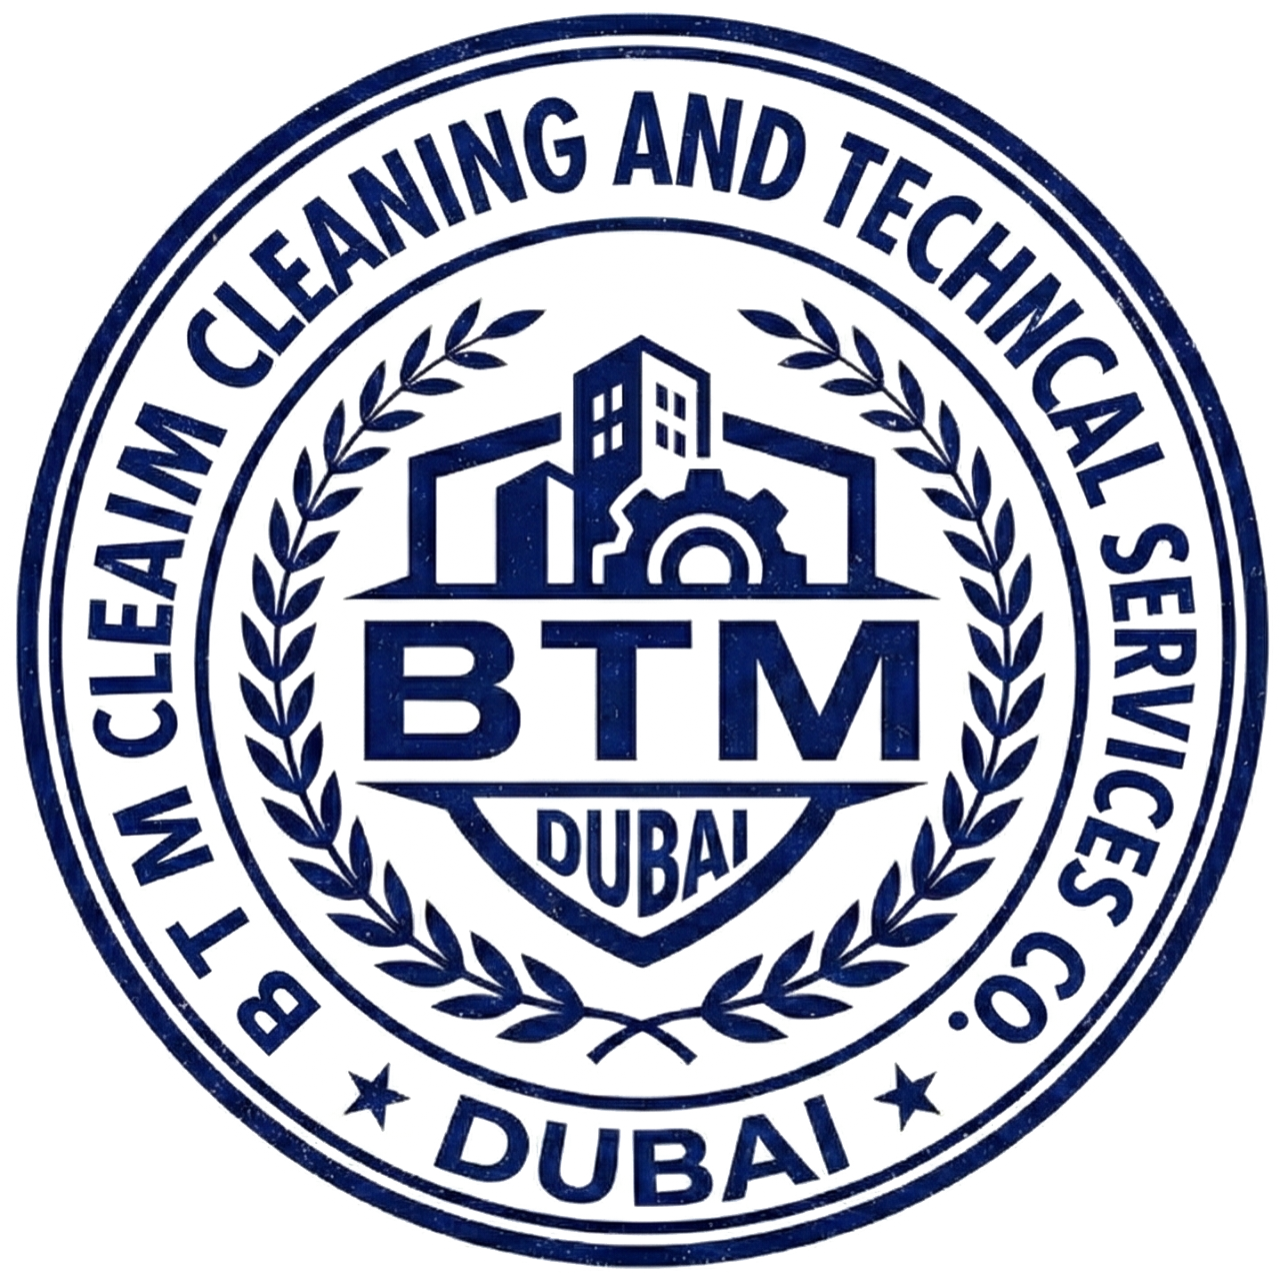
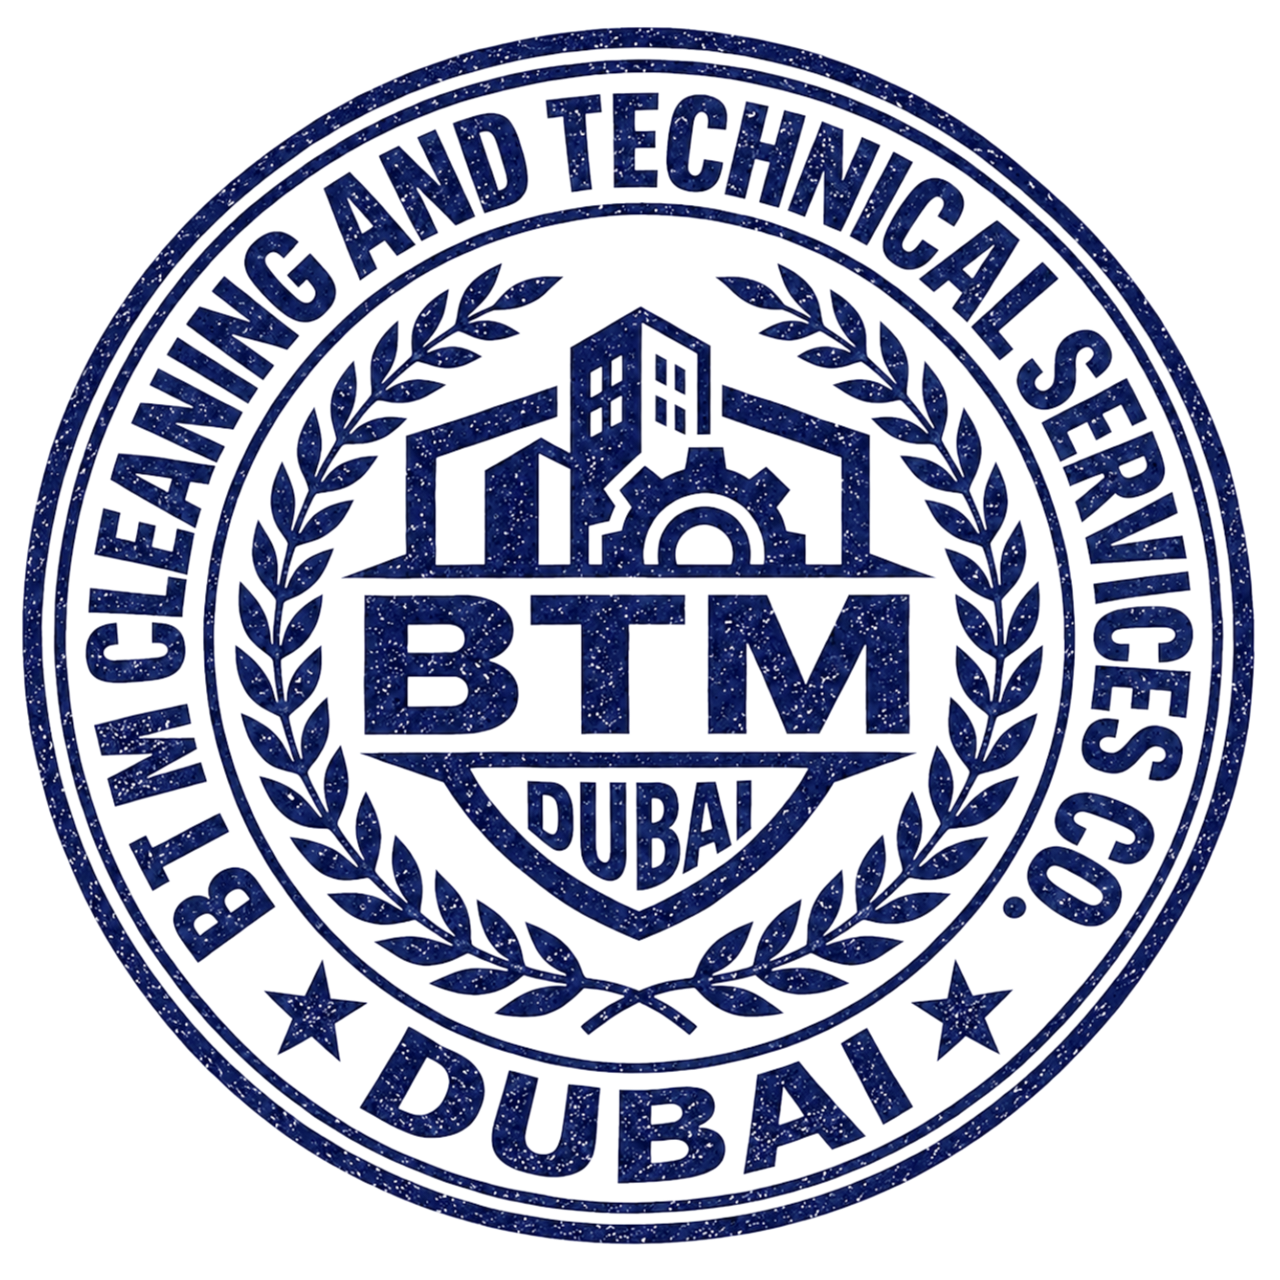
feat: Invoice created_at and invoice_date conflict bug fixed. Stamp image text was wrong so replaced that image.  [no charge]

diff --git a/src/app/admin/invoices/page.tsx b/src/app/admin/invoices/page.tsx
@@ -72,12 +72,14 @@ function DeleteConfirmModal({
 function InvoicedPopover({
   data,
   invoices,
+  profilesMap,
   onClose,
   onDelete,
   deleting,
 }: {
   data: { booking: any, x: number, y: number };
   invoices: any[];
+  profilesMap?: Record<string, string>;
   onClose: () => void;
   onDelete: (inv: any) => void;
   deleting: boolean;
@@ -145,7 +147,15 @@ function InvoicedPopover({
               <p className="text-[9px] font-black text-gray-400 uppercase tracking-widest mb-0.5">Total Billed</p>
               <p className="text-xl font-black text-green-600">AED {Number(inv.total_amount).toFixed(2)}</p>
             </div>
-            <p className="text-[10px] font-bold text-gray-400">{format(parseISO(inv.created_at), 'dd MMM yyyy')}</p>
+            <div className="text-right">
+              <p className="text-[9px] font-black text-gray-400 uppercase tracking-widest mb-0.5">Invoice Date</p>
+              <p className="text-[10px] font-black text-gray-700">{format(parseISO(inv.invoice_date || inv.created_at), 'dd MMM yyyy')}</p>
+              {inv.created_at && (
+                <p className="text-[9px] font-bold text-gray-400 mt-0.5">
+                  Created: {format(new Date(inv.created_at), 'dd MMM yyyy, hh:mm a')}{inv.created_by && profilesMap?.[inv.created_by] ? ` by ${profilesMap[inv.created_by]}` : ''}
+                </p>
+              )}
+            </div>
           </div>
 
           <div className="flex items-center gap-2">
@@ -262,6 +272,7 @@ export default function InvoiceManagement() {
   // ── Inline Popover State ───────────────────────────────────────────────────
   const [popoverData, setPopoverData] = useState<{ booking: any, x: number, y: number } | null>(null);
   const [popoverDeleting, setPopoverDeleting] = useState(false);
+  const [profilesMap, setProfilesMap] = useState<Record<string, string>>({});
 
   // ── 1. Initial data fetch (Default: Last 2 Months) ─────────────────────────
   useEffect(() => {
@@ -271,7 +282,7 @@ export default function InvoiceManagement() {
       const twoMonthsAgo = startOfMonth(subMonths(now, 1)); // Covers previous month + current month = 2 months
       const twoMonthsAgoStr = format(twoMonthsAgo, 'yyyy-MM-dd');
 
-      const [compRes, invRes, ucRes, instRes, earliestRes] = await Promise.all([
+      const [compRes, invRes, ucRes, instRes, earliestRes, profRes] = await Promise.all([
         supabase.from('companies').select('id, name').order('name'),
         supabase.from('invoices')
           .select('*')
@@ -286,12 +297,20 @@ export default function InvoiceManagement() {
           .select('invoice_date')
           .order('invoice_date', { ascending: true })
           .limit(1),
+        supabase.from('profiles').select('id, username, full_name'),
       ]);
 
       if (compRes.data) setCompanies(compRes.data);
       if (invRes.data) setInvoices(invRes.data);
       if (ucRes.data) setUnitConfigs(ucRes.data);
       if (instRes.data) setAllInstantInvoices(instRes.data);
+      if (profRes.data) {
+        const pMap: Record<string, string> = {};
+        profRes.data.forEach((p: any) => {
+          pMap[p.id] = p.username || p.full_name || 'Admin';
+        });
+        setProfilesMap(pMap);
+      }
 
       const earliest = earliestRes.data?.[0]?.invoice_date || null;
       setEarliestInvoiceDate(earliest);
@@ -419,7 +438,7 @@ export default function InvoiceManagement() {
     const { data: instantData } = await supabase
       .from('instant_invoices').select('*')
       .eq('company_id', companyId).eq('is_paid', false).eq('merged_into_monthly', false)
-      .gte('created_at', `${startDate}T00:00:00.000Z`).lte('created_at', `${endDate}T23:59:59.999Z`);
+      .gte('invoice_date', startDate).lte('invoice_date', endDate);
 
     if (bError) { toast.error("Error fetching bookings"); setLoadingFetch(false); return; }
     setUnpaidInstantBills(instantData || []);
@@ -750,6 +769,7 @@ export default function InvoiceManagement() {
           <InvoicedPopover
             data={popoverData}
             invoices={invoices}
+            profilesMap={profilesMap}
             onClose={() => setPopoverData(null)}
             onDelete={handlePopoverDelete}
             deleting={popoverDeleting}
@@ -918,7 +938,16 @@ export default function InvoiceManagement() {
                                       <input type="checkbox" checked={selectedInstantBillIds.includes(bill.id)} onChange={() => toggleInstantBill(bill.id)} className="w-4 h-4 text-blue-600 rounded border-gray-300 cursor-pointer" />
                                       <div>
                                         <p className="text-sm font-black text-gray-800">{bill.invoice_no}</p>
-                                        <p className="text-[10px] font-bold text-gray-500">{format(new Date(bill.created_at), 'dd MMM yyyy, hh:mm a')}</p>
+                                        <div className="flex items-center gap-2 flex-wrap">
+                                          <p className="text-[10px] font-black text-amber-800">
+                                            Date: {format(parseISO(bill.invoice_date || bill.created_at), 'dd MMM yyyy')}
+                                          </p>
+                                          {bill.created_at && (
+                                            <span className="text-[9px] font-medium text-gray-400">
+                                              (Created: {format(new Date(bill.created_at), 'dd MMM, hh:mm a')}{bill.created_by && profilesMap[bill.created_by] ? ` by ${profilesMap[bill.created_by]}` : ''})
+                                            </span>
+                                          )}
+                                        </div>
                                       </div>
                                     </div>
                                     <p className="text-sm font-black text-amber-700">AED {Number(bill.total_amount).toFixed(2)}</p>
@@ -1232,8 +1261,13 @@ export default function InvoiceManagement() {
                                 </div>
                                 <p className="text-xs font-bold text-gray-600 flex items-center gap-1.5"><Building2 size={12} className="text-gray-400" /> {inv.company_name}</p>
                                 <p className="text-[10px] font-bold text-blue-600 mt-1 uppercase tracking-widest flex items-center gap-1">
-                                  <Calendar size={11} /> Issue Date: {format(parseISO(inv.invoice_date || inv.created_at), 'dd MMM yyyy')}
+                                  <Calendar size={11} /> Invoice Date: {format(parseISO(inv.invoice_date || inv.created_at), 'dd MMM yyyy')}
                                 </p>
+                                {inv.created_at && (
+                                  <p className="text-[9px] font-medium text-gray-400 mt-0.5">
+                                    Created: {format(new Date(inv.created_at), 'dd MMM yyyy, hh:mm a')}{inv.created_by && profilesMap[inv.created_by] ? ` by ${profilesMap[inv.created_by]}` : ''}
+                                  </p>
+                                )}
                                 {inv.start_date && inv.end_date && (
                                   <p className="text-[10px] font-bold text-gray-400 mt-0.5 uppercase tracking-widest">
                                     Work: {format(parseISO(inv.start_date), 'dd MMM')} – {format(parseISO(inv.end_date), 'dd MMM yyyy')}

diff --git a/src/app/admin/revenue/page.tsx b/src/app/admin/revenue/page.tsx
@@ -80,8 +80,8 @@ export default function RevenueDashboard() {
     }
 
     const [invRes, instRes, bookRes, configRes, expRes] = await Promise.all([
-      supabase.from('invoices').select('id, invoice_no, subtotal, discount, total_amount, is_paid, created_at, payment_date, company_name, start_date, end_date, pdf_url, company_id, instant_invoice_ids').gte('end_date', `${startDateStr}T00:00:00.000Z`).lte('end_date', `${endDateStr}T23:59:59.999Z`),
-      supabase.from('instant_invoices').select('id, invoice_no, subtotal, discount, total_amount, is_paid, created_at, payment_date, client_type, customer_name, merged_into_monthly, pdf_url, company_id, companies(name)').gte('created_at', `${startDateStr}T00:00:00.000Z`).lte('created_at', `${endDateStr}T23:59:59.999Z`),
+      supabase.from('invoices').select('id, invoice_no, invoice_date, subtotal, discount, total_amount, is_paid, created_at, payment_date, company_name, start_date, end_date, pdf_url, company_id, instant_invoice_ids').gte('end_date', `${startDateStr}T00:00:00.000Z`).lte('end_date', `${endDateStr}T23:59:59.999Z`),
+      supabase.from('instant_invoices').select('id, invoice_no, invoice_date, subtotal, discount, total_amount, is_paid, created_at, payment_date, client_type, customer_name, merged_into_monthly, pdf_url, company_id, companies(name)').gte('invoice_date', startDateStr).lte('invoice_date', endDateStr),
       supabase.from('bookings').select(`
         id, cleaning_date, status, price, invoice_no, unit_id, booking_ref, service_type,
         units ( unit_number, building_name, company_id, companies (name) ),
@@ -211,10 +211,10 @@ export default function RevenueDashboard() {
 
     return days.map(day => {
       const bookedToday = filteredBookings.filter(b => isSameDay(parseISO(b.cleaning_date), day)).reduce((sum, b) => sum + b.grandTotal, 0);
-      const instantToday = filteredInstant.filter(i => isSameDay(parseISO(i.created_at), day)).reduce((sum, i) => sum + Number(i.total_amount), 0);
+      const instantToday = filteredInstant.filter(i => isSameDay(parseISO(i.invoice_date || i.created_at), day)).reduce((sum, i) => sum + Number(i.total_amount), 0);
 
-      const collMonthly = filteredInvoices.filter(i => i.is_paid && isSameDay(parseISO(i.payment_date || i.created_at), day)).reduce((sum, i) => sum + Number(i.total_amount), 0);
-      const collInstant = filteredInstant.filter(i => i.is_paid && !i.merged_into_monthly && isSameDay(parseISO(i.payment_date || i.created_at), day)).reduce((sum, i) => sum + Number(i.total_amount), 0);
+      const collMonthly = filteredInvoices.filter(i => i.is_paid && isSameDay(parseISO(i.payment_date || i.invoice_date || i.created_at), day)).reduce((sum, i) => sum + Number(i.total_amount), 0);
+      const collInstant = filteredInstant.filter(i => i.is_paid && !i.merged_into_monthly && isSameDay(parseISO(i.payment_date || i.invoice_date || i.created_at), day)).reduce((sum, i) => sum + Number(i.total_amount), 0);
 
       return {
         date: format(day, 'dd MMM'),
@@ -318,12 +318,12 @@ export default function RevenueDashboard() {
         .map((iid: string) => instantInvoices.find((ii: any) => ii.id === iid))
         .filter(Boolean);
       const mergedAmount = mergedInstants.reduce((sum: number, inst: any) => sum + Number(inst.total_amount), 0);
-      list.push({ ...inv, origin: 'Monthly Contract', date: inv.created_at, name: inv.company_name, mergedAmount, mergedInstants });
+      list.push({ ...inv, origin: 'Monthly Contract', date: inv.invoice_date || inv.created_at, name: inv.company_name, mergedAmount, mergedInstants });
     });
 
     filteredInstant.filter(i => !i.merged_into_monthly).forEach(i => {
       const name = i.client_type === 'registered' ? i.companies?.name : i.customer_name;
-      list.push({ ...i, origin: 'Instant POS', date: i.created_at, name });
+      list.push({ ...i, origin: 'Instant POS', date: i.invoice_date || i.created_at, name });
     });
 
     return list.sort((a, b) => new Date(b.date).getTime() - new Date(a.date).getTime());

diff --git a/src/app/admin/invoices/InstantPOS.tsx b/src/app/admin/invoices/InstantPOS.tsx
@@ -136,6 +136,7 @@ export default function InstantPOS({
   const [history, setHistory] = useState<any[]>([]);
   const [units, setUnits] = useState<Unit[]>([]);
   const [monthlyInvoices, setMonthlyInvoices] = useState<any[]>([]);
+  const [profilesMap, setProfilesMap] = useState<Record<string, string>>({});
 
   // ── Invoice Header ─────────────────────────────────────────────────────────
   const [invoiceNo, setInvoiceNo] = useState("");
@@ -201,7 +202,7 @@ export default function InstantPOS({
     const twoMonthsAgo = startOfMonth(subMonths(now, 1)); // 2 full calendar months
     const twoMonthsAgoStr = format(twoMonthsAgo, 'yyyy-MM-dd');
 
-    const [instRes, monthlyRes, earliestRes] = await Promise.all([
+    const [instRes, monthlyRes, earliestRes, profRes] = await Promise.all([
       supabase
         .from("instant_invoices")
         .select("*, subtotal, discount, discount_remarks, companies(name)")
@@ -211,16 +212,27 @@ export default function InstantPOS({
       supabase
         .from("invoices")
         .select("id, invoice_no, is_paid, instant_invoice_ids")
+        .order("invoice_date", { ascending: false })
         .order("created_at", { ascending: false }),
       supabase
         .from("instant_invoices")
         .select("invoice_date")
         .order("invoice_date", { ascending: true })
         .limit(1),
+      supabase
+        .from("profiles")
+        .select("id, username, full_name"),
     ]);
 
     if (instRes.data) setHistory(instRes.data);
     if (monthlyRes.data) setMonthlyInvoices(monthlyRes.data);
+    if (profRes.data) {
+      const pMap: Record<string, string> = {};
+      profRes.data.forEach((p: any) => {
+        pMap[p.id] = p.username || p.full_name || 'Admin';
+      });
+      setProfilesMap(pMap);
+    }
 
     const earliest = earliestRes.data?.[0]?.invoice_date || null;
     setEarliestInvoiceDate(earliest);
@@ -1268,10 +1280,17 @@ export default function InstantPOS({
                           }`}
                         >
                           <div className="flex justify-between items-start mb-4">
-                            <span className="text-[10px] font-black uppercase tracking-widest text-indigo-600 bg-indigo-50 px-2.5 py-1 rounded-lg border border-indigo-100 flex items-center gap-1">
-                              <Calendar size={10} />
-                              {format(parseISO(inv.invoice_date || inv.created_at), "dd MMM yyyy")}
-                            </span>
+                            <div>
+                              <span className="text-[10px] font-black uppercase tracking-widest text-indigo-600 bg-indigo-50 px-2.5 py-1 rounded-lg border border-indigo-100 flex items-center gap-1">
+                                <Calendar size={10} />
+                                {format(parseISO(inv.invoice_date || inv.created_at), "dd MMM yyyy")}
+                              </span>
+                              {inv.created_at && (
+                                <p className="text-[9px] font-medium text-gray-400 mt-1 pl-0.5">
+                                  Created: {format(new Date(inv.created_at), "dd MMM yyyy, hh:mm a")}{inv.created_by && profilesMap[inv.created_by] ? ` by ${profilesMap[inv.created_by]}` : ""}
+                                </p>
+                              )}
+                            </div>
                             {mergedIntoMonthly ? (
                               <span className={`text-[10px] font-black uppercase tracking-widest px-2 py-1 rounded-lg border flex items-center gap-1 ${effectivePaid ? "bg-emerald-50 text-emerald-700 border-emerald-200" : "bg-teal-100 text-teal-700 border-teal-300"}`}>
                                 {effectivePaid ? <><CheckCircle2 size={12} /> Paid</> : <><Layers size={12} /> Merged</>}

diff --git a/src/app/admin/invoices/InvoiceDocument.tsx b/src/app/admin/invoices/InvoiceDocument.tsx
@@ -417,7 +417,12 @@ export const InvoiceDocument = ({ data }: any) => {
 
                     {instantBillsByUnit[unitId].map((entry: any, eIdx: number) => {
                       const matchedBill = instantBills?.find((b: any) => b.invoice_no === entry.billNo);
-                      const billDateStr = matchedBill?.created_at ? format(parseISO(matchedBill.created_at), 'dd-MMM-yyyy') : '';
+                      const rawBillDate = matchedBill?.invoice_date || matchedBill?.invoiceDate || matchedBill?.created_at;
+                      const billDateStr = rawBillDate
+                        ? (typeof rawBillDate === 'string'
+                            ? format(parseISO(rawBillDate.includes('T') ? rawBillDate : `${rawBillDate}T00:00:00`), 'dd-MMM-yyyy')
+                            : format(rawBillDate, 'dd-MMM-yyyy'))
+                        : '';
                       return (
                         <React.Fragment key={`pos-u-${eIdx}`}>
                           {/* Half Width Left Aligned Orange Box */}
@@ -473,7 +478,12 @@ export const InvoiceDocument = ({ data }: any) => {
 
               {instantBillsNoUnit.map((entry: any, eIdx: number) => {
                 const matchedBill = instantBills?.find((b: any) => b.invoice_no === entry.billNo);
-                const billDateStr = matchedBill?.created_at ? format(parseISO(matchedBill.created_at), 'dd-MMM-yyyy') : '';
+                const rawBillDate = matchedBill?.invoice_date || matchedBill?.invoiceDate || matchedBill?.created_at;
+                const billDateStr = rawBillDate
+                  ? (typeof rawBillDate === 'string'
+                      ? format(parseISO(rawBillDate.includes('T') ? rawBillDate : `${rawBillDate}T00:00:00`), 'dd-MMM-yyyy')
+                      : format(rawBillDate, 'dd-MMM-yyyy'))
+                  : '';
                 return (
                   <React.Fragment key={`pos-nou-${eIdx}`}>
                     {/* Half Width Left Aligned Orange Box */}

diff --git a/src/app/admin/dashboard/page.tsx b/src/app/admin/dashboard/page.tsx
@@ -418,13 +418,13 @@ function FinancialCard({ bookings, dateFrom, dateTo }: { bookings:any[]; dateFro
     (async()=>{
       const { data } = await supabase
         .from('instant_invoices')
-        .select('total_amount, created_at')
-        .gte('created_at',`${dateFrom}T00:00:00`)
-        .lte('created_at',`${dateTo}T23:59:59`);
+        .select('total_amount, invoice_date, created_at')
+        .gte('invoice_date', dateFrom)
+        .lte('invoice_date', dateTo);
       if(data){
         const m: Record<string,number>={};
         data.forEach((d:any)=>{
-          const day = format(parseISO(d.created_at),'yyyy-MM-dd');
+          const day = d.invoice_date || format(parseISO(d.created_at),'yyyy-MM-dd');
           m[day]=(m[day]||0)+Number(d.total_amount);
         });
         setPosMap(m);
@@ -822,8 +822,8 @@ function InvoiceCard({ invoices, dateFrom, dateTo }: { invoices:any[]; dateFrom:
   useEffect(()=>{
     (async()=>{
       const {data} = await supabase.from('instant_invoices')
-        .select('id,total_amount,is_paid,company_id,customer_name,client_type,created_at')
-        .gte('created_at',`${dateFrom}T00:00:00`).lte('created_at',`${dateTo}T23:59:59`);
+        .select('id,total_amount,is_paid,company_id,customer_name,client_type,invoice_date,created_at')
+        .gte('invoice_date', dateFrom).lte('invoice_date', dateTo);
       if(data) setInstantInv(data);
     })();
   },[dateFrom,dateTo]);
@@ -1157,7 +1157,7 @@ export default function AdminDashboard() {
         .lte('cleaning_date', fe),
 
         supabase.from('invoices')
-          .select('id,company_name,total_amount,created_at,is_paid,start_date,end_date')
+          .select('id,company_name,total_amount,invoice_date,created_at,is_paid,start_date,end_date')
           .lte('start_date', fe)
           .gte('end_date', fs),
       ]);
